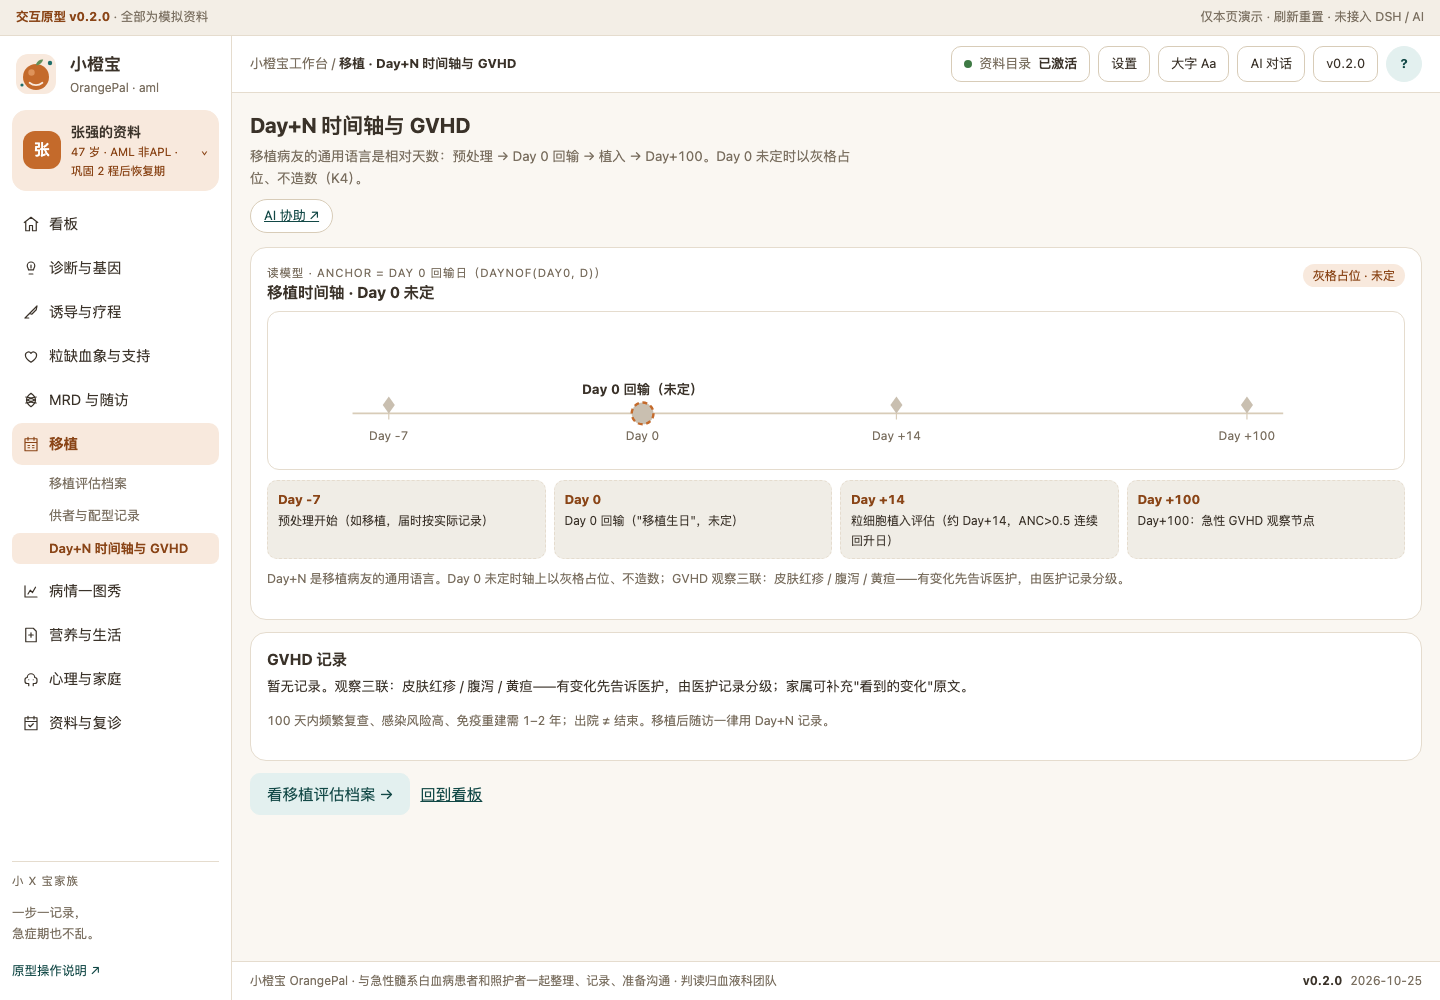
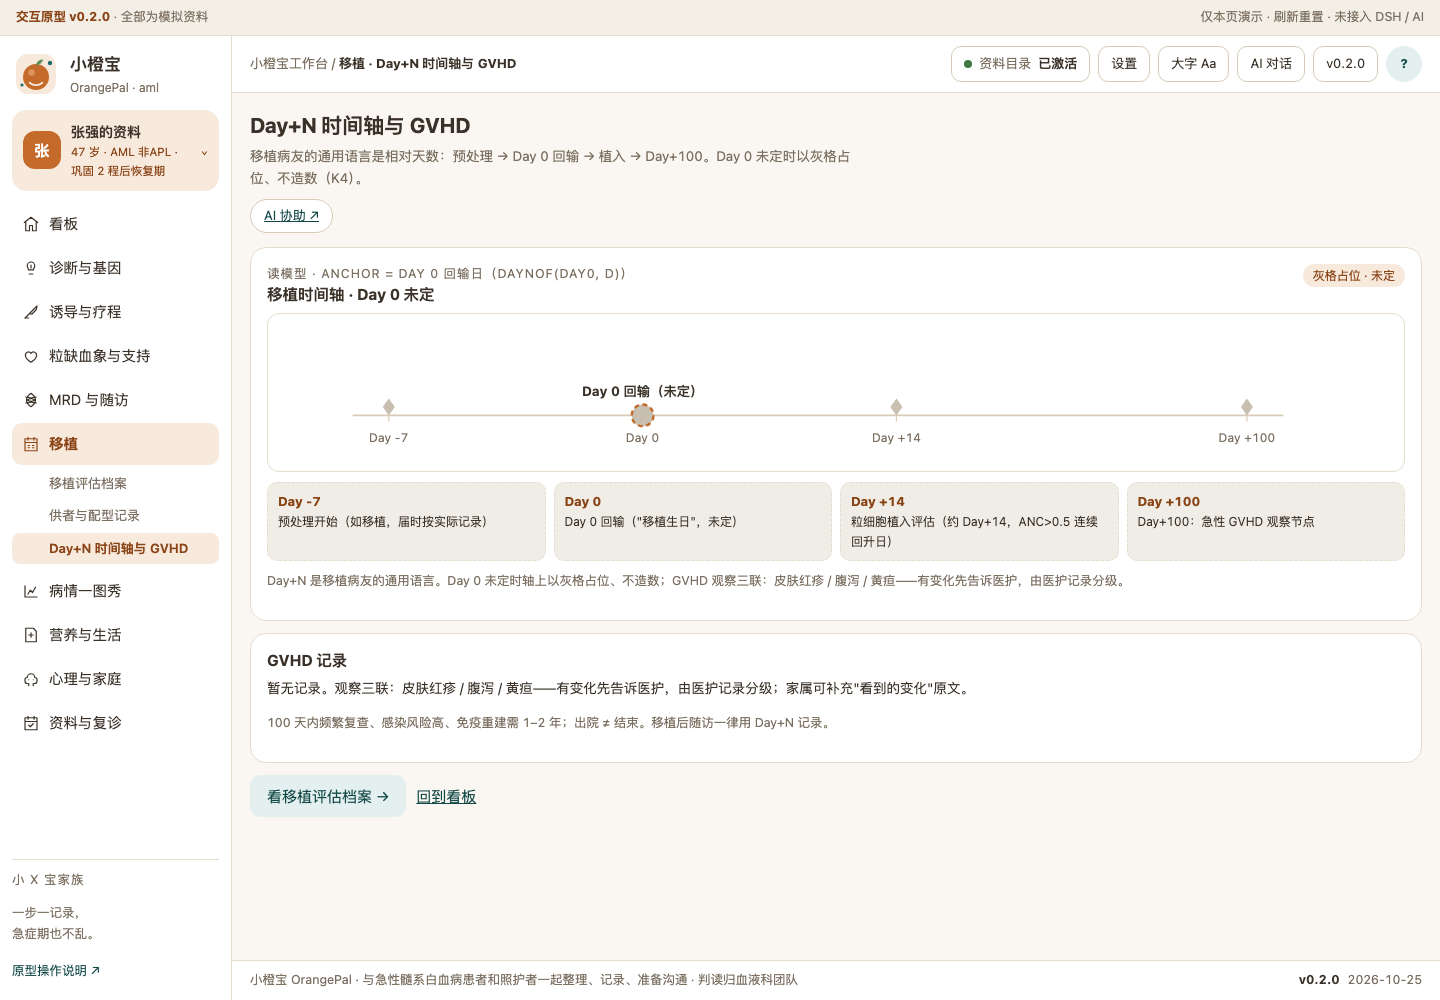
M2 复评修复：P0×2（急症提示静默关闭/Esc可忽略）+P1×3（代记体温不显/事件标签重叠/README过期资产）+P2×4；check-fever-rule 扩至15条源码守卫

diff --git a/prototypes/v0.2/style.css b/prototypes/v0.2/style.css
@@ -14,7 +14,7 @@
 }
 html { height: 100%; }
 body { margin: 0; height: 100%; background: var(--paper); color: var(--ink);
-  font: 15.5px/1.65 -apple-system, BlinkMacSystemFont, "PingFang SC", "Microsoft YaHei", sans-serif;
+  font: 15px/1.65 -apple-system, BlinkMacSystemFont, "PingFang SC", "Microsoft YaHei", sans-serif;
   font-variant-numeric: tabular-nums; }
 body.large { font-size: 18.5px; }
 button, input, select { font: inherit; color: inherit; }
@@ -72,13 +72,13 @@ h1, h2, h3, h4 { line-height: 1.35; margin: 0; }
 .primer-btn { width: 36px; padding: 0; border-radius: 50%; background: var(--act-soft); border-color: var(--act-soft);
   color: var(--act-ink); font-weight: 700; }
 #main { flex: 1; overflow-y: auto; padding: 18px 18px 40px; min-width: 0; container-type: inline-size; }
-.footer { padding: 9px 18px; font-size: 12px; color: var(--muted); border-top: 1px solid var(--line);
+.footer { padding: 9px 18px; font-size: 12.5px; color: var(--muted); border-top: 1px solid var(--line);
   background: var(--surface); display: flex; justify-content: space-between; gap: 10px; flex-wrap: wrap; }
 .ver-line b { color: var(--ink); }
 .ver-line em { font-style: normal; margin-left: 8px; }
 
 /* ---------- 通用部件 ---------- */
-.eyebrow { display: block; font-size: 11.5px; letter-spacing: .08em; color: var(--muted); text-transform: uppercase; }
+.eyebrow { display: block; font-size: 12.5px; letter-spacing: .08em; color: var(--muted); text-transform: uppercase; }
 .section-title { display: flex; justify-content: space-between; align-items: flex-end; gap: 10px; flex-wrap: wrap; margin: 22px 0 10px; }
 .section-title h2 { font-size: 17px; }
 .section-title p { margin: 2px 0 0; font-size: 12.5px; color: var(--muted); }
@@ -160,10 +160,10 @@ td.small-note { white-space: normal; }
 .dg-head { display: flex; justify-content: space-between; align-items: flex-start; gap: 10px; flex-wrap: wrap; margin-bottom: 10px; }
 .dg-grid { display: grid; grid-template-columns: repeat(7, minmax(0, 1fr)); gap: 6px; min-width: 0; }
 .dg-cell { border: 1px solid var(--line); border-radius: 10px; background: var(--surface); padding: 6px 7px; min-height: 74px; min-width: 0; position: relative; overflow: hidden; }
-.dg-cell .dg-day { font-size: 11px; color: var(--muted); white-space: nowrap; }
-.dg-cell .dg-dn { display: inline-block; font-size: 10.5px; font-weight: 700; color: var(--org-ink); background: var(--org-soft); border-radius: 6px; padding: 0 5px; margin-left: 4px; }
+.dg-cell .dg-day { font-size: 12.5px; color: var(--muted); white-space: nowrap; }
+.dg-cell .dg-dn { display: inline-block; font-size: 12.5px; font-weight: 700; color: var(--org-ink); background: var(--org-soft); border-radius: 6px; padding: 0 5px; margin-left: 4px; }
 .dg-cell .dg-marks { display: flex; gap: 4px; flex-wrap: wrap; margin-top: 4px; }
-.dg-mark { font-size: 10px; padding: 0 5px; border-radius: 5px; background: var(--act-soft); color: var(--act-ink); font-weight: 600; white-space: nowrap; }
+.dg-mark { font-size: 12px; padding: 0 5px; border-radius: 5px; background: var(--act-soft); color: var(--act-ink); font-weight: 600; white-space: nowrap; }
 .dg-mark.ven { background: var(--org-soft); color: var(--org-ink); }
 .dg-cell .dg-fever { margin-top: 4px; font-size: 10.5px; color: var(--red); font-weight: 700; white-space: normal; line-height: 1.3; }
 .dg-cell .dg-tx { margin-top: 3px; font-size: 10px; color: var(--act-ink); display: block; white-space: normal; }

diff --git a/public/style.css b/public/style.css
@@ -14,7 +14,7 @@
 }
 html { height: 100%; }
 body { margin: 0; height: 100%; background: var(--paper); color: var(--ink);
-  font: 15.5px/1.65 -apple-system, BlinkMacSystemFont, "PingFang SC", "Microsoft YaHei", sans-serif;
+  font: 15px/1.65 -apple-system, BlinkMacSystemFont, "PingFang SC", "Microsoft YaHei", sans-serif;
   font-variant-numeric: tabular-nums; }
 body.large { font-size: 18.5px; }
 button, input, select { font: inherit; color: inherit; }
@@ -72,13 +72,13 @@ h1, h2, h3, h4 { line-height: 1.35; margin: 0; }
 .primer-btn { width: 36px; padding: 0; border-radius: 50%; background: var(--act-soft); border-color: var(--act-soft);
   color: var(--act-ink); font-weight: 700; }
 #main { flex: 1; overflow-y: auto; padding: 18px 18px 40px; min-width: 0; container-type: inline-size; }
-.footer { padding: 9px 18px; font-size: 12px; color: var(--muted); border-top: 1px solid var(--line);
+.footer { padding: 9px 18px; font-size: 12.5px; color: var(--muted); border-top: 1px solid var(--line);
   background: var(--surface); display: flex; justify-content: space-between; gap: 10px; flex-wrap: wrap; }
 .ver-line b { color: var(--ink); }
 .ver-line em { font-style: normal; margin-left: 8px; }
 
 /* ---------- 通用部件 ---------- */
-.eyebrow { display: block; font-size: 11.5px; letter-spacing: .08em; color: var(--muted); text-transform: uppercase; }
+.eyebrow { display: block; font-size: 12.5px; letter-spacing: .08em; color: var(--muted); text-transform: uppercase; }
 .section-title { display: flex; justify-content: space-between; align-items: flex-end; gap: 10px; flex-wrap: wrap; margin: 22px 0 10px; }
 .section-title h2 { font-size: 17px; }
 .section-title p { margin: 2px 0 0; font-size: 12.5px; color: var(--muted); }
@@ -160,10 +160,10 @@ td.small-note { white-space: normal; }
 .dg-head { display: flex; justify-content: space-between; align-items: flex-start; gap: 10px; flex-wrap: wrap; margin-bottom: 10px; }
 .dg-grid { display: grid; grid-template-columns: repeat(7, minmax(0, 1fr)); gap: 6px; min-width: 0; }
 .dg-cell { border: 1px solid var(--line); border-radius: 10px; background: var(--surface); padding: 6px 7px; min-height: 74px; min-width: 0; position: relative; overflow: hidden; }
-.dg-cell .dg-day { font-size: 11px; color: var(--muted); white-space: nowrap; }
-.dg-cell .dg-dn { display: inline-block; font-size: 10.5px; font-weight: 700; color: var(--org-ink); background: var(--org-soft); border-radius: 6px; padding: 0 5px; margin-left: 4px; }
+.dg-cell .dg-day { font-size: 12.5px; color: var(--muted); white-space: nowrap; }
+.dg-cell .dg-dn { display: inline-block; font-size: 12.5px; font-weight: 700; color: var(--org-ink); background: var(--org-soft); border-radius: 6px; padding: 0 5px; margin-left: 4px; }
 .dg-cell .dg-marks { display: flex; gap: 4px; flex-wrap: wrap; margin-top: 4px; }
-.dg-mark { font-size: 10px; padding: 0 5px; border-radius: 5px; background: var(--act-soft); color: var(--act-ink); font-weight: 600; white-space: nowrap; }
+.dg-mark { font-size: 12px; padding: 0 5px; border-radius: 5px; background: var(--act-soft); color: var(--act-ink); font-weight: 600; white-space: nowrap; }
 .dg-mark.ven { background: var(--org-soft); color: var(--org-ink); }
 .dg-cell .dg-fever { margin-top: 4px; font-size: 10.5px; color: var(--red); font-weight: 700; white-space: normal; line-height: 1.3; }
 .dg-cell .dg-tx { margin-top: 3px; font-size: 10px; color: var(--act-ink); display: block; white-space: normal; }

diff --git a/docs/DESIGN-REVIEW.md b/docs/DESIGN-REVIEW.md
@@ -8,3 +8,32 @@
 评审重点：用户任务证据、专业视角偏差、场景取舍、完整闭环、AI解释价值、分期、来源时效和主体/隐私。记录高优先级问题，而非只给“通过”。未能调用实际独立模型，写明待完成及影响，不阻断全部探索。
 
 本表只审设计方案，不代表发布已授权、包已安装、Desktop已加载或市场已收录。发布决策与证据分别记录在 `docs/RELEASE.md`、`docs/ACCEPTANCE.md`；市场流程见 `docs/10-MARKET-PUBLISHING.md`。
+
+## G2 前独立评审（2026-10-26）· P0=2 → 已全部修复
+
+评审人：独立评审 Agent（主线模型，CDP 真实浏览器实测 + 代码逐行核对）。
+
+### 初评结论：**不通过**（P0=2 / P1=4 / P2=6 / PASS=12）
+
+| ID | 等级 | 问题 | 证据 | 修复 |
+| --- | --- | --- | --- | --- |
+| F-01 | **P0** | 粒缺发热急症提示被静默关掉：`onSave(vals); closeModal()` 把刚弹出的急症框立即关闭——录 38.5℃ 无任何提示 | app.js:895 + CDP 埋点 finalOpen=false | ✅ openForm 支持 `onSave` 返回 true 接管弹窗；temp-add fever 分支先 closeModal 再 feverFlag 并 return true |
+| F-02 | **P0** | 急症框可被 Esc / 遮罩点击忽略关闭（与"不可忽略"承诺不符） | 全文件 cancel 监听 0 处；实测 Esc/backdrop 均关闭 | ✅ dataset.emergency 标记 + cancel/click 拦截 + closeModal 清标记 |
+| F-03 | PASS | classifyTemp 三常量语义正确（11 例边界全过） | 11/11 实测 | — |
+| H-01 | P1 | 代记体温只存不显（`mem().temps` 无渲染读取） | grep 3 处均写不读 | ✅ pageNeuFever 按 episode 时间窗合并 liveTemps 去重排序 |
+| H-02 | P1 | hourLane 事件标签重叠（12:40 ∩ 13:10 叠印） | SVG 坐标实测 | ✅ 相邻 <22 单位交替两行 + 虚线引导 |
+| H-03 | P1 | README 8 张截图指向过期资产 + 1 张破图（`-v0.2.0` 不存在） | 尺寸/时间戳比对 | ✅ 引用统一 `-0.2.0`，删 8 个 `-v0.2.0` 残留，重跑 shots 9 张 |
+| H-04 | P1 | 评审截图 primer 拍到淡入起始帧 | 像素 diff 138px | ✅ 重拍（脚本内等待稳定态），本轮截图非看板 |
+| H-05 | P2 | 一图秀输注泳道标签重叠 | 文本包围盒相交 | ✅ 按 x 排序贪心错行（<34 单位换行） |
+| M-01 | P2 | dayGrid `.today` 死代码（TODAY 不在疗程窗口） | 实测 todayCell=NONE | ⏳ 已知：保留分支（换疗程窗口即生效），记入待办 |
+| M-02 | P2 | 发热定义双前缀重复渲染 | 实测文本双前缀 | ✅ 渲染时剥离 meta 自带前缀 |
+| M-03 | P2 | 字号越界（body 15.5 / eyebrow 11.5 / footer 12 / dayGrid 10–11） | computed fontSize 实测 | ✅ body→15、eyebrow→12.5、footer→12.5、dg-day/dg-dn→12.5、dg-mark→12 |
+| M-04 | P2 | 35 号 v2 试验匹配未实现 | 试验页仅 4 列表格 | ⏳ **本期不实现**（已在 DIFF-MATRIX 标注为二期；命名红线干净，无 eligible/适配度） |
+| M-05 | P2 | screenshots 两套资产并存 | 17 文件 | ✅ 删残留后 9 张 |
+
+### 修复后复验（实测）
+
+- E2E（CDP）：录 38.5 → `#dialog.open=true` 标题「这是急症信号」→ Esc 不关 → 遮罩不关 → 点确认才关 ✓
+- 代记体温：录 38.5 后页面文本含 38.5 ✓
+- `check-fever-rule.mjs` 扩为 **15/15**（新增 F-01/F-02/H-01 六条源码守卫断言，防回归）
+- `npm run check` exit=0；`npm test` 4/4；README 9 张截图 md5 全唯一、引用 0 破图

diff --git a/README.md b/README.md
@@ -69,36 +69,36 @@
 
 **看板**——"现在到疗程第几天？今天注意什么？"：D+N 状态卡、粒缺期模式卡（ANC<0.5 自动出现）、最近血象、双主体入口与场景直达。
 
-![看板](docs/screenshots/readme-dashboard-v0.2.0.png)
+![看板](docs/screenshots/readme-dashboard-0.2.0.png)
 
 **诱导日历（按天）**（AML 首创 dayGrid）——"7+3 到底怎么打的？为什么第 8 天反而最危险？"：D1–D42 每天一格，化疗打勾、谷值期带、骨穿窗口、当日体温/输注摘要；无记录显示灰格（允许"仅知月份"）。
 
-![诱导日历按天](docs/screenshots/readme-daygrid-v0.2.0.png)
+![诱导日历按天](docs/screenshots/readme-daygrid-0.2.0.png)
 
 **粒缺发热轨道**（AML 首创 hourLane）——"半夜烧到 38.5 该怎么办？"：体温精确到小时、38.3/38.0 定义口径参考线、血培养双套与抗生素时点节点；定义原文常驻、急症提示不可忽略；照护者代记自动标注记录人（双源）。
 
-![粒缺发热轨道](docs/screenshots/readme-hourlane-v0.2.0.png)
+![粒缺发热轨道](docs/screenshots/readme-hourlane-0.2.0.png)
 
 **Day+N 相对天数轴**——移植病友的通用语言：Day 0 回输锚点（未定时灰格占位、不造数）、植入 Day+14、Day+100 GVHD 观察节点。
 
-![Day+N 时间轴](docs/screenshots/readme-dayaxis-v0.2.0.png)
+![Day+N 时间轴](docs/screenshots/readme-dayaxis-0.2.0.png)
 
 **病情一图秀**——"变化发生在哪一步？"：ANC/PLT + 体重 + 同方法 MRD 放回同一段时间；疗程/粒缺发作/输注是分类节点只画节点不连线；月粒度轴不装小时（不跨尺度共轴）。
 
-![一图秀](docs/screenshots/readme-onechart-v0.2.0.png)
+![一图秀](docs/screenshots/readme-onechart-0.2.0.png)
 
 **治疗路径折叠卡**——默认只显「阶段 · 日期 · 一句话概要」，点开五块细节（方案/指标/影像/副作用/支持）；打印时全部展开（beforeprint 实测，printToPDF 打印中 5 卡全开、打印后恢复）。
 
-![治疗路径折叠](docs/screenshots/readme-pathway-folded-v0.2.0.png)
-![治疗路径展开](docs/screenshots/readme-pathway-expanded-v0.2.0.png)
+![治疗路径折叠](docs/screenshots/readme-pathway-folded-0.2.0.png)
+![治疗路径展开](docs/screenshots/readme-pathway-expanded-0.2.0.png)
 
 **私密三出口**（红线页）——"对死亡的准备"默认私密：默认不进导出、不进看板摘要、不进 AI 上下文（同一个 sharedOnly 过滤函数贯穿三出口）。
 
-![私密三出口](docs/screenshots/readme-private-filter-v0.2.0.png)
+![私密三出口](docs/screenshots/readme-private-filter-0.2.0.png)
 
 **疾病概要整页**（36 号）——顶栏「?」打开四段整页（定义 / 医学资料与指南情况 / 治疗全景 / 发展趋势），逐段带来源与原件取得情况；与上面「## 疾病概要」同源，不是弹窗。
 
-![疾病概要](docs/screenshots/readme-primer-v0.2.0.png)
+![疾病概要](docs/screenshots/readme-primer-0.2.0.png)
 
 ## 怎么用
 

diff --git a/docs/DIFF-MATRIX.md b/docs/DIFF-MATRIX.md
@@ -14,3 +14,9 @@
 
 ## G1 决策点
 ①APL（M3 型）同仓分型 vs 另案；②MRD 双口径并列 vs 主口径；③病危通知场景记录 private 默认；④儿童 AML 边界。
+
+
+## 试验匹配（35 号）本期边界
+
+- 一期**不实现**分层匹配（试验页仅登记信息表：研究/登记号/中心/状态（未核实））；命名红线干净（无 eligible/适配度/匹配度）。
+- 二期按 starter docs/35-TRIAL-MATCHING.md v2 实现：粗筛符合度 pct（符合÷已对照、待确认=0 只偏低）+ 四档分层 + 逐条证据链，断言器 check-trial-matching.mjs 进 check 链。
